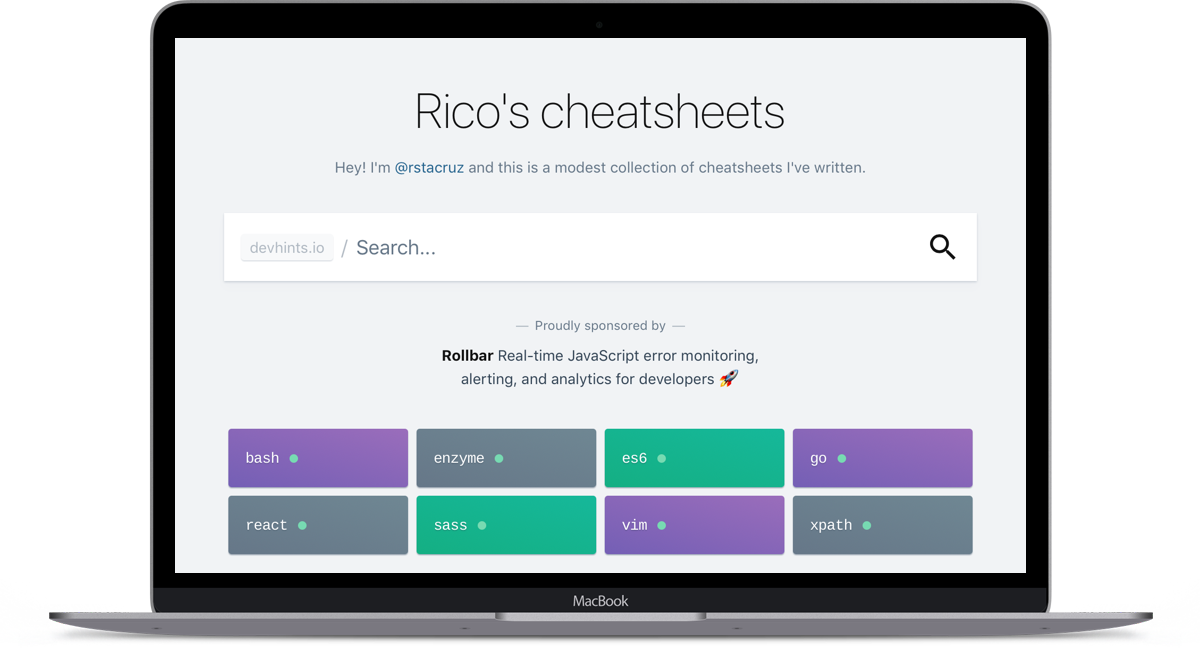
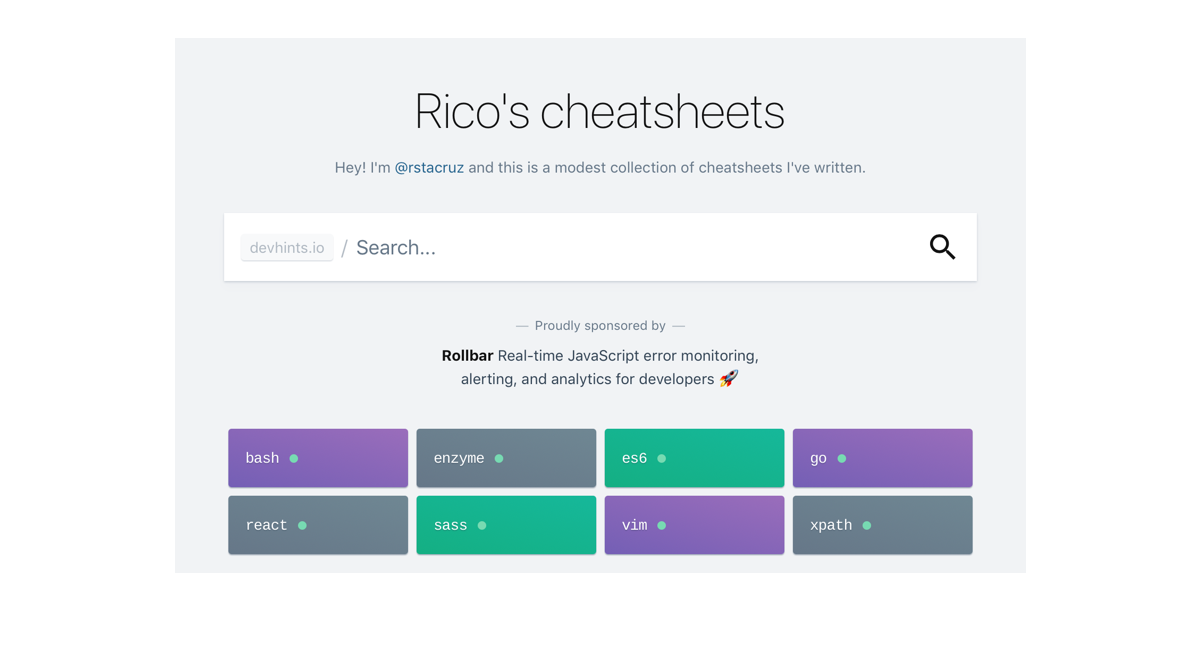
Converted static macbook image to slideshow (#52)
It looks wonderful. Excellent job!

Changed region(s): [[0.0308, 0.0, 0.9558, 1.0]]

diff --git a/home/templates/index.html b/home/templates/index.html
@@ -130,8 +130,11 @@
             We Help Sustain Open Source
           </h1>
           <p class="home-subtitle mx-auto pt-2">we help fund open source projects through ethical advertising</p>
-          <div class="">
-            <img src="{% static 'home/images/macbook-devhints.png' %}" alt="" class="img-fluid center-block home-dashboard">
+          <div id="macbook-slideshow">
+            <img src="{% static 'home/images/macbook-border.png' %}" alt="" class="macbook img-fluid center-block home-dashboard">
+            <img src="{% static 'home/images/macbook-devhints.png' %}" alt="" class="slide img-fluid center-block home-dashboard">
+            <img src="{% static 'home/images/macbook-jsbin.png' %}" alt="" class="slide img-fluid center-block home-dashboard">
+            <img src="{% static 'home/images/macbook-codesandbox.png' %}" alt="" class="slide img-fluid center-block home-dashboard">
           </div>
         </div>
       </div>
@@ -238,6 +241,7 @@
   <script src="{% static 'home/js/jquery.counterup.min.js' %}" type="text/javascript"></script>
   <!--common script for all pages-->
   <script src="{% static 'home/js/jquery.app.js' %}" type="text/javascript"></script>
+  <script src="{% static 'home/js/macbook-slideshow.js' %}" type="text/javascript"></script>
   <script type="text/javascript">
     $(".element").each(function () {
       var $this = $(this);

diff --git a/static/home/css/style.css b/static/home/css/style.css
@@ -226,6 +226,28 @@ a {
 }
 
 
+/*--MACBOOK SLIDESHOW--*/
+
+#macbook-slideshow {
+    position: relative;
+}
+
+/* Place macbook in front of slides */
+#macbook-slideshow img.macbook {
+    z-index: 1;
+    position: absolute;
+}
+
+/* Display slides behind the macbook */
+#macbook-slideshow > img.slide {
+    z-index: 0;
+}
+
+/* Select all slides except the first one and hide them */
+#macbook-slideshow > img.slide ~ img.slide {
+    display: none;
+}
+
 /*====================
     3.Features
 =====================*/

diff --git a/static/home/js/macbook-slideshow.js b/static/home/js/macbook-slideshow.js
@@ -1,0 +1,9 @@
+var slides = $('#macbook-slideshow .slide');
+var currentSlide = 0;
+var slideInterval = setInterval(nextSlide,3500);
+
+function nextSlide() {
+    $(slides[currentSlide]).hide();
+    currentSlide = (currentSlide+1)%slides.length;
+    $(slides[currentSlide]).fadeIn();
+}
